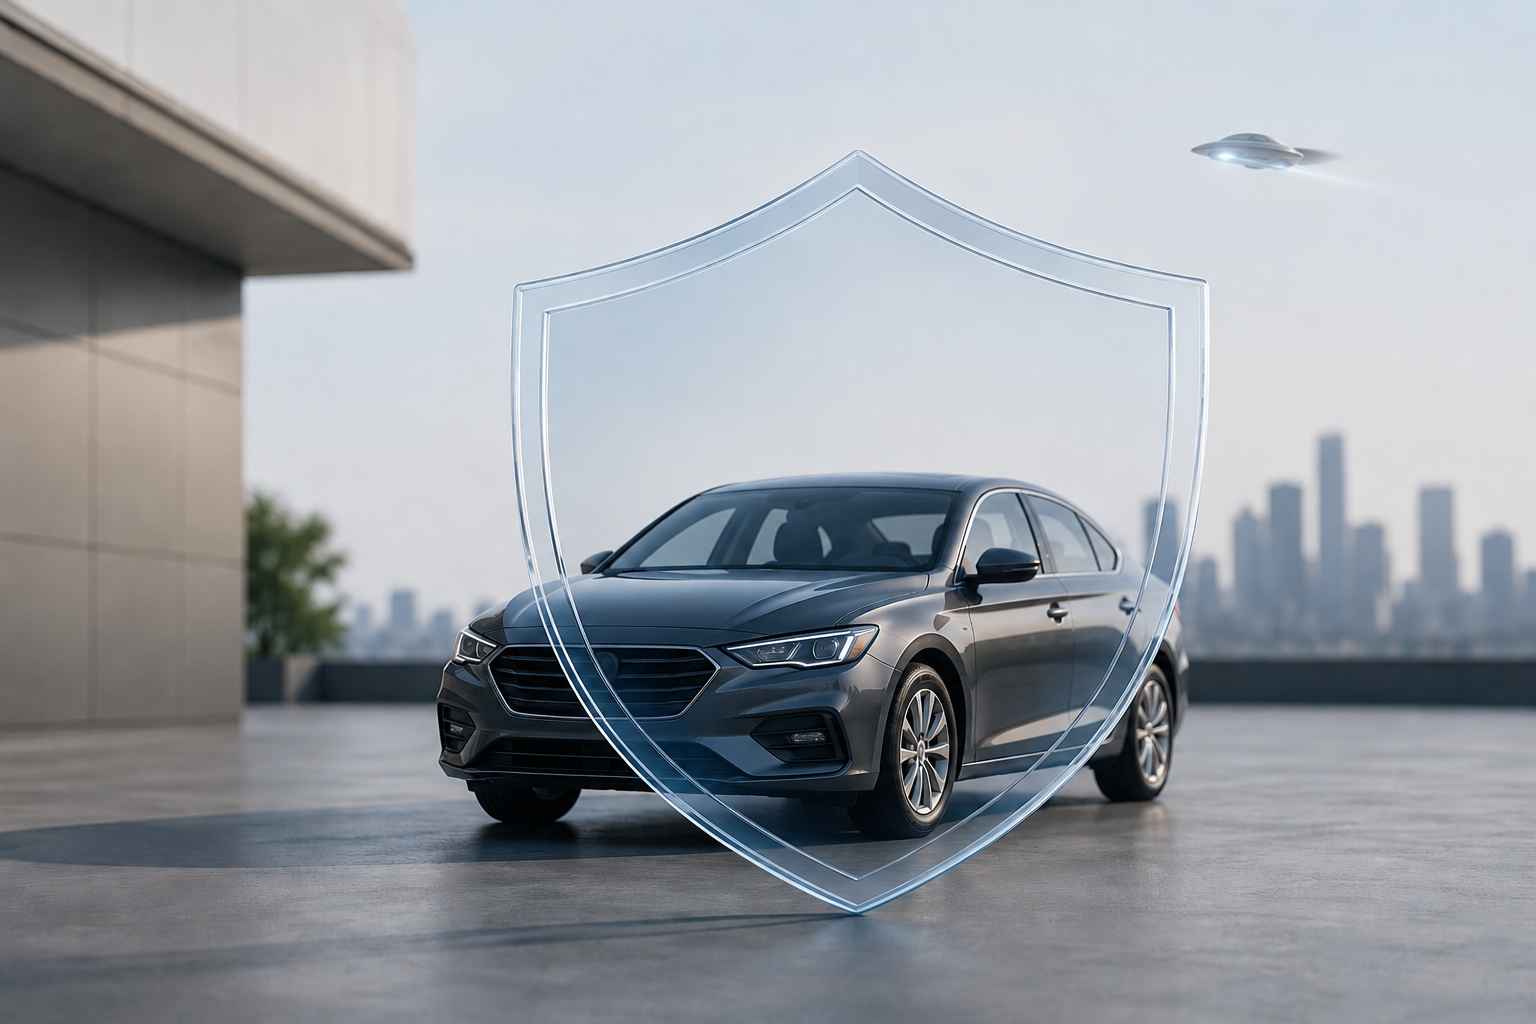
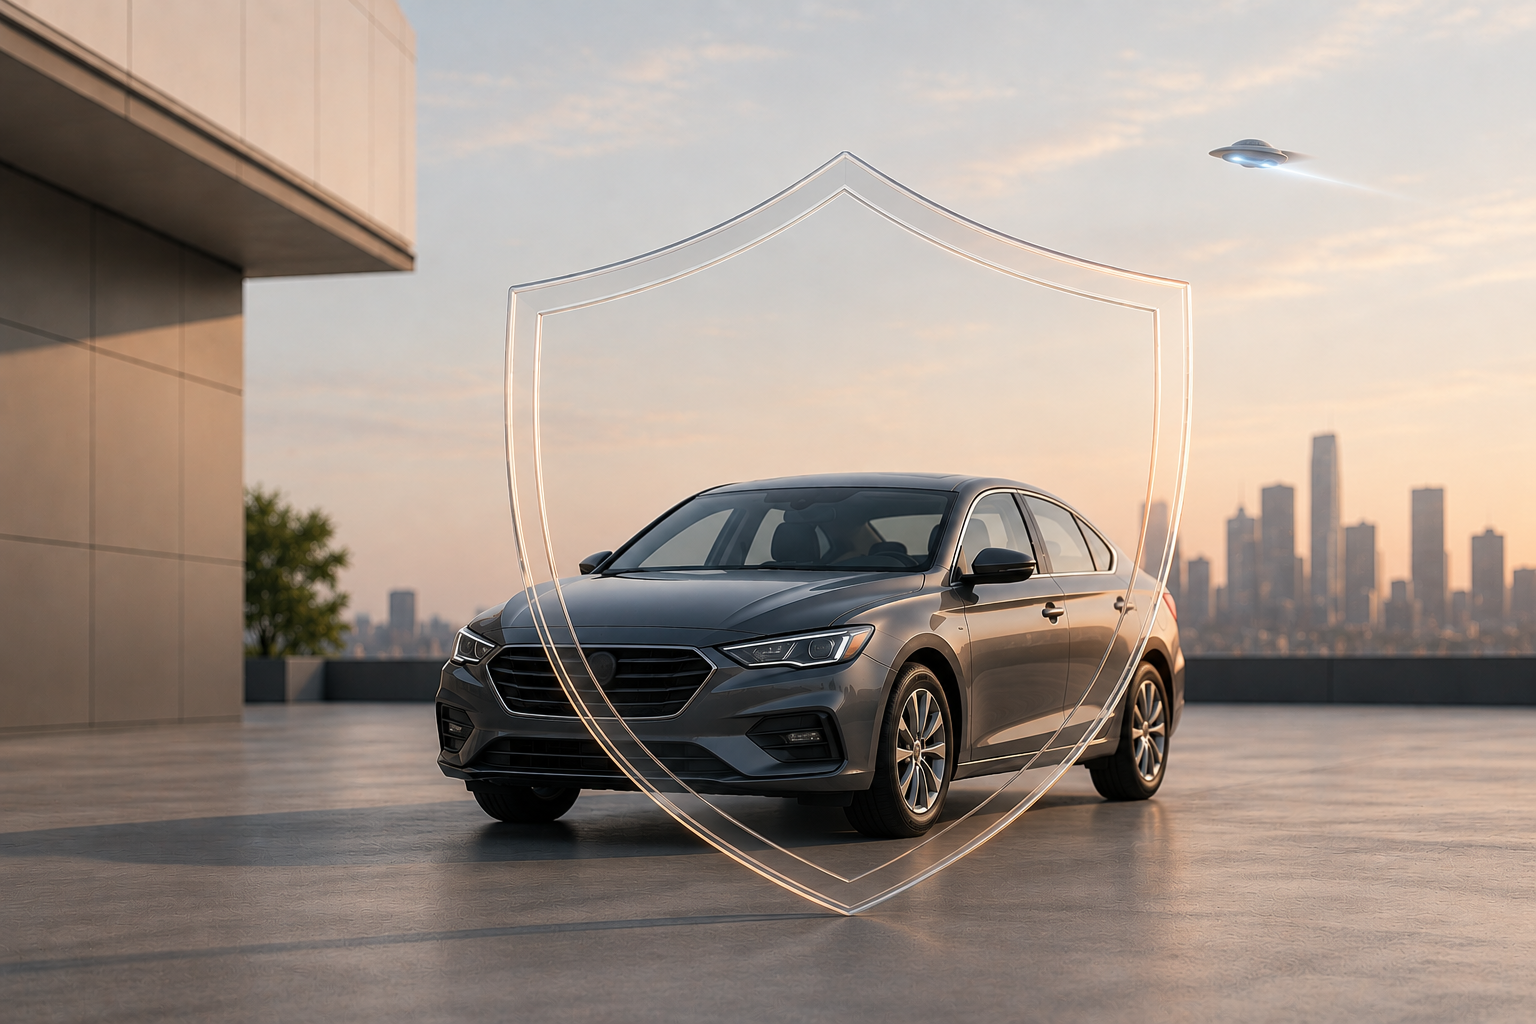
imrpoved style

diff --git a/ih-vdn/src/main/resources/META-INF/resources/styles.css b/ih-vdn/src/main/resources/META-INF/resources/styles.css
@@ -1,12 +1,31 @@
 /* InsuranceHub — vehicle insurance landing page styles. */
 
+/* Aletyx-inspired palette: orange accents on a near-black background. */
+html {
+    --lumo-primary-color: #ff7700;
+    --lumo-primary-color-50pct: rgba(255, 119, 0, 0.5);
+    --lumo-primary-color-10pct: rgba(255, 119, 0, 0.1);
+    --lumo-primary-text-color: #ff7700;
+    --lumo-primary-contrast-color: #ffffff;
+
+    --lumo-base-color: #0c0d0f;
+    --lumo-body-text-color: #f0f0f0;
+    --lumo-header-text-color: #ffffff;
+    --lumo-secondary-text-color: #9c9c9d;
+
+    --lumo-contrast-5pct: rgba(255, 255, 255, 0.05);
+    --lumo-contrast-10pct: rgba(255, 255, 255, 0.1);
+    --lumo-contrast-20pct: rgba(255, 255, 255, 0.2);
+}
+
 .hero {
     min-height: 100vh;
     justify-content: center;
     align-items: center;
+    color: #f0f0f0;
     background:
-        radial-gradient(1200px 600px at 85% -10%, #dbeafe 0%, transparent 60%),
-        linear-gradient(180deg, #f8fafc 0%, #eef2ff 100%);
+        radial-gradient(1200px 600px at 85% -10%, rgba(235, 75, 4, 0.35) 0%, transparent 60%),
+        linear-gradient(180deg, #0a0b0d 0%, #07080a 100%);
 }
 
 .hero--form {
@@ -39,20 +58,20 @@
     line-height: 1.08;
     font-weight: 800;
     margin: 0.6rem 0 0;
-    color: #0f172a;
+    color: #ffffff;
 }
 
 .hero__subtitle {
     font-size: 1.15rem;
     line-height: 1.6;
-    color: #475569;
+    color: #9c9c9d;
     margin: 1.1rem 0 0;
 }
 
 .hero__section-title {
     font-size: 1.4rem;
     font-weight: 700;
-    color: #0f172a;
+    color: #ffffff;
     margin: 2rem 0 0.75rem;
 }
 
@@ -63,7 +82,7 @@
 }
 
 .hero__cta {
-    box-shadow: 0 10px 25px rgba(29, 78, 216, 0.35);
+    box-shadow: 0 10px 25px rgba(235, 75, 4, 0.45);
 }
 
 .quote-result__price {
@@ -81,7 +100,7 @@
 .quote-result__period {
     font-size: 1.1rem;
     font-weight: 600;
-    color: #475569;
+    color: #9c9c9d;
 }
 
 .quote-result__factors {
@@ -91,31 +110,31 @@
 
 .quote-result__factor {
     padding: 0.85rem 0;
-    border-bottom: 1px solid #e2e8f0;
+    border-bottom: 1px solid rgba(255, 255, 255, 0.1);
 }
 
 .quote-result__factor-name {
     font-weight: 700;
-    color: #0f172a;
+    color: #ffffff;
 }
 
 .quote-result__factor-detail {
     display: block;
     font-size: 0.9rem;
-    color: #64748b;
+    color: #9c9c9d;
     margin-top: 0.15rem;
 }
 
 .quote-result__factor-value {
     font-weight: 700;
-    color: #0f172a;
+    color: #ffffff;
     white-space: nowrap;
 }
 
 .quote-result__disclaimer {
     margin-top: 1.5rem;
     font-size: 0.9rem;
-    color: #94a3b8;
+    color: #6b6b6c;
     font-style: italic;
 }
 
@@ -124,5 +143,5 @@
     max-width: 520px;
     width: 100%;
     height: auto;
-    filter: drop-shadow(0 24px 48px rgba(30, 58, 138, 0.18));
+    filter: drop-shadow(0 24px 48px rgba(235, 75, 4, 0.3));
 }

diff --git a/ih-vdn/src/main/java/ih/vdn/MainView.java b/ih-vdn/src/main/java/ih/vdn/MainView.java
@@ -47,9 +47,9 @@ public class MainView extends VerticalLayout {
         quote.addClassName("hero__cta");
         quote.addClickListener(e -> quote.getUI().ifPresent(ui -> ui.navigate(QuoteView.class)));
 
-        var learn = new Button("Explore coverage");
+        var learn = new Button("Explore Aletyx");
         learn.addThemeVariants(ButtonVariant.LUMO_LARGE, ButtonVariant.LUMO_TERTIARY);
-        learn.addClickListener(e -> learn.getUI().ifPresent(ui -> ui.navigate(AboutView.class)));
+        learn.addClickListener(e -> learn.getUI().ifPresent(ui -> ui.getPage().open("https://aletyx.ai", "_blank")));
 
         var actions = new HorizontalLayout(quote, learn);
         actions.addClassName("hero__actions");